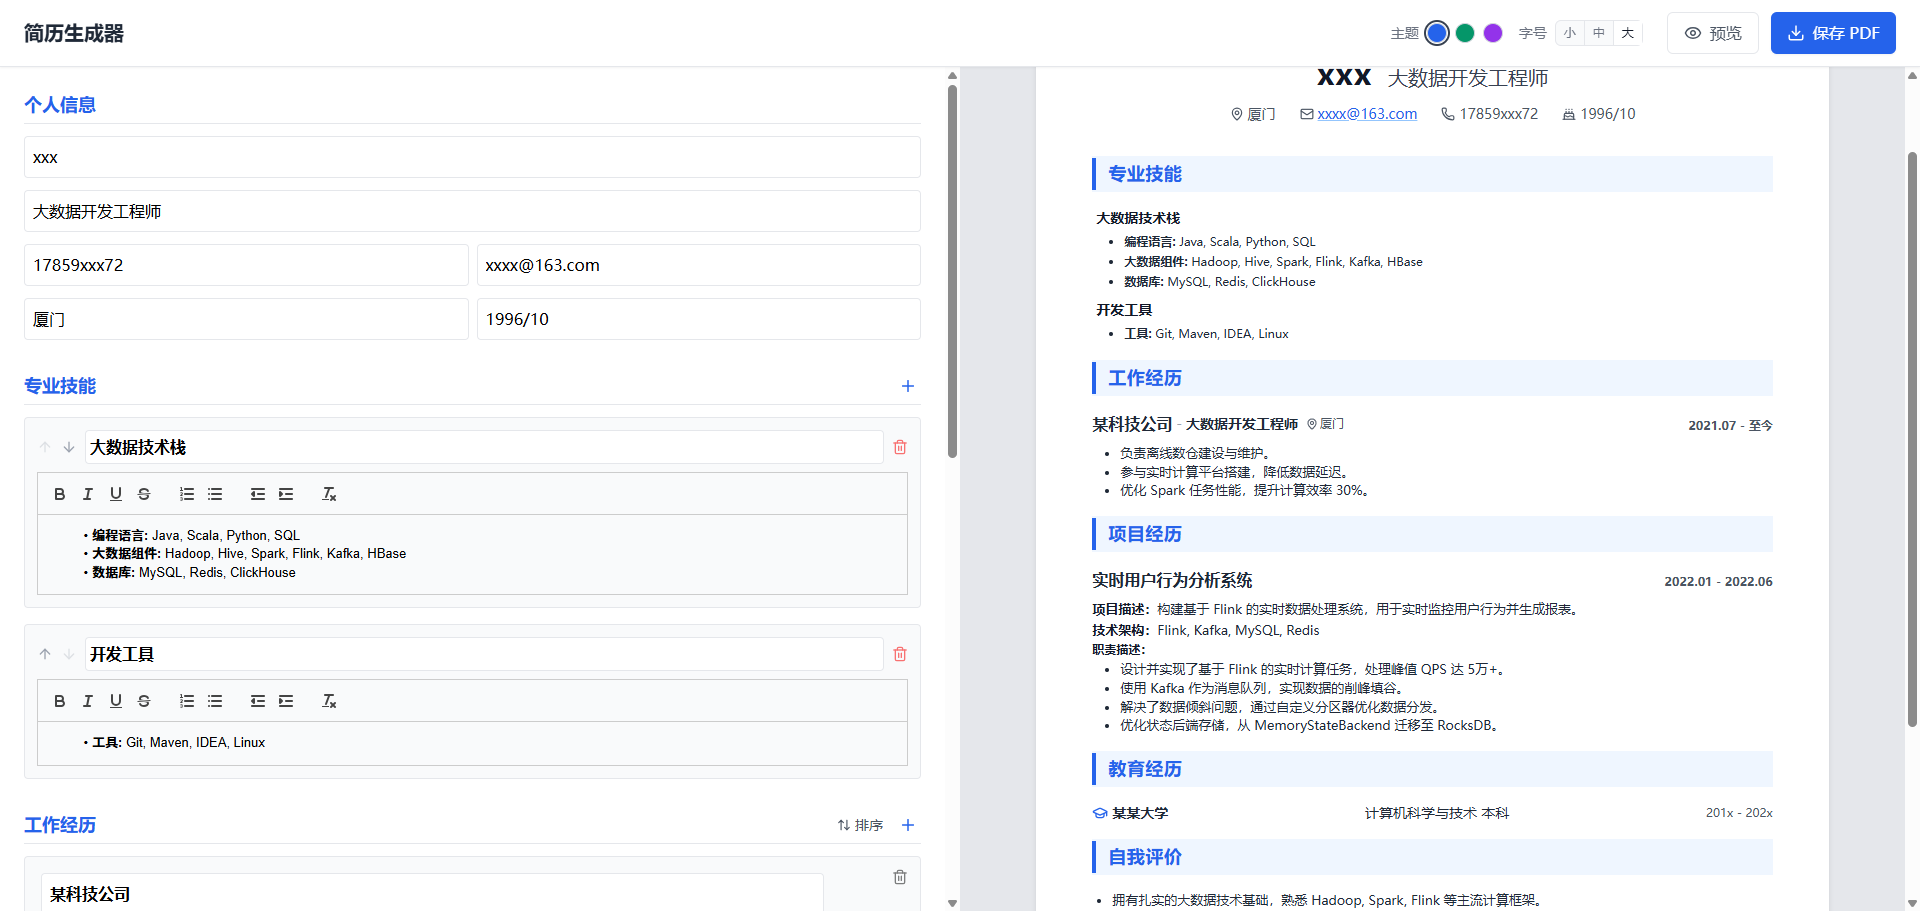
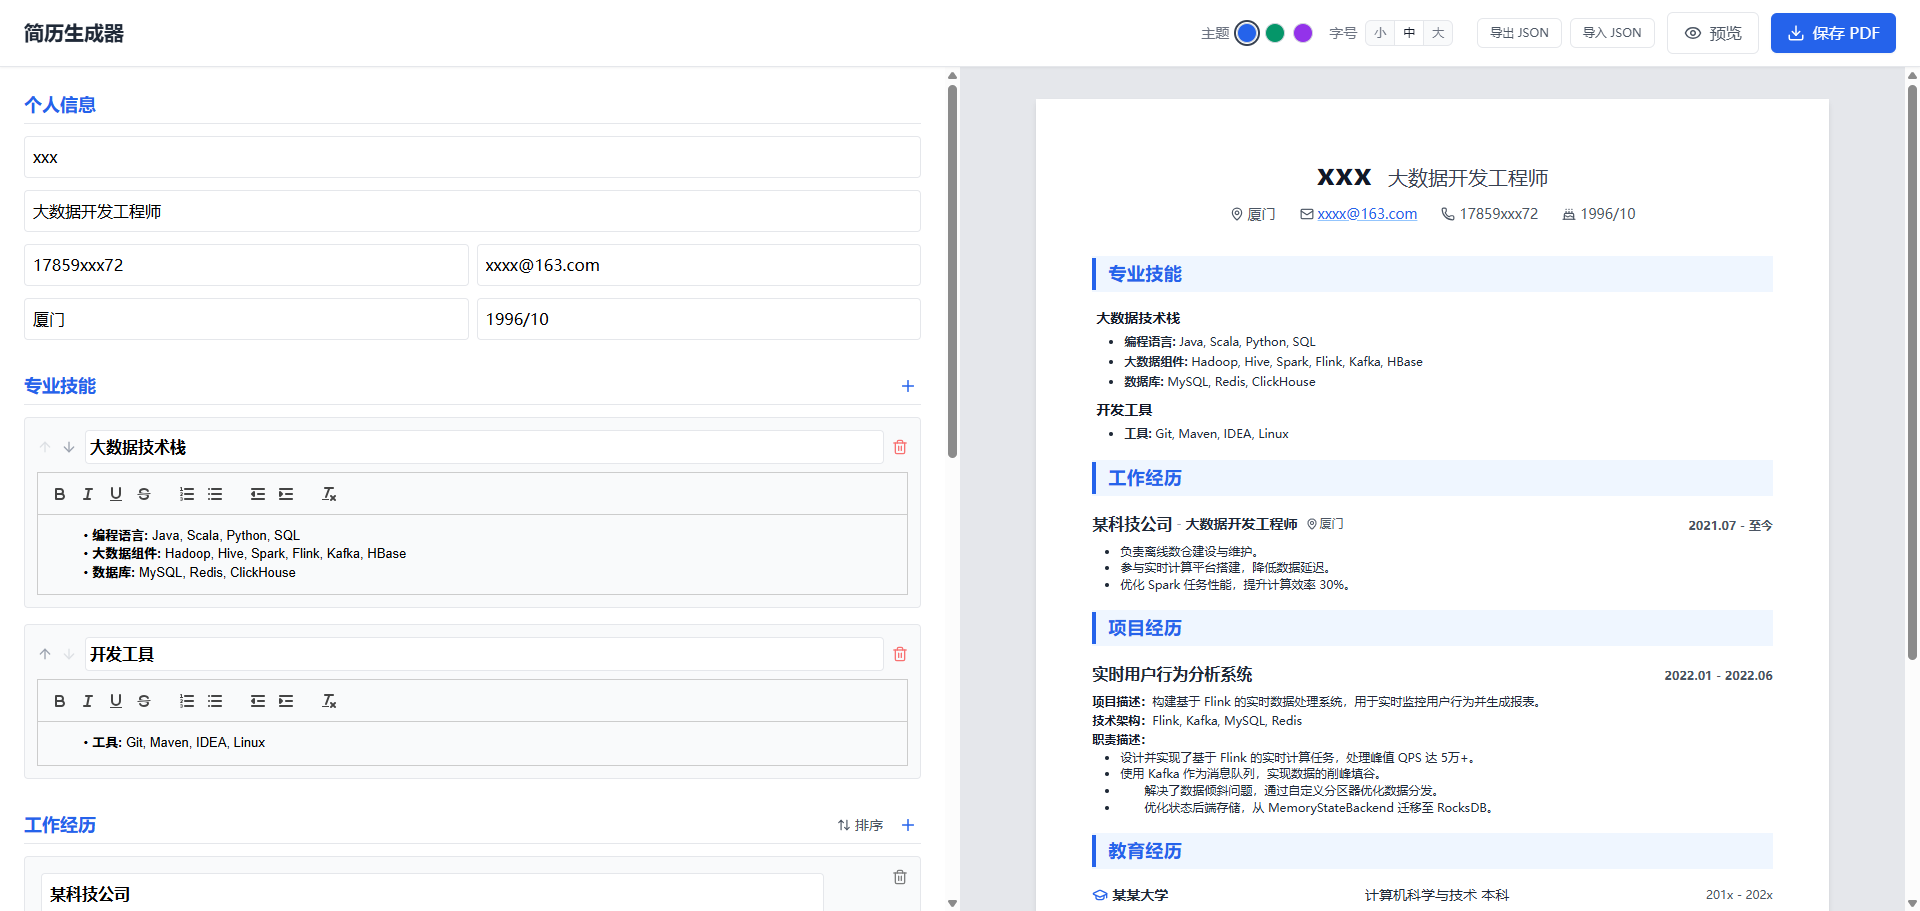
feat(数据持久化): 实现简历数据的本地存储和JSON导入导出功能
- 添加自动保存到localStorage功能，刷新后可恢复编辑
- 新增JSON导出功能，可将简历数据保存为本地文件
- 新增JSON导入功能，可从文件恢复简历数据
- 更新README文档说明新功能使用方法

diff --git a/src/App.tsx b/src/App.tsx
@@ -1,4 +1,4 @@
-import { useState } from 'react';
+import { useState, useEffect, useRef } from 'react';
 import ResumeEditor from './components/ResumeEditor';
 import ResumePreview from './components/ResumePreview';
 import type { ResumeData, Theme, FontSize } from './types';
@@ -40,6 +40,8 @@ const fontSizeOptions: { id: FontSize; label: string }[] = [
   { id: 'medium', label: '中' },
   { id: 'large', label: '大' },
 ];
+
+const STORAGE_KEY = 'resume-web-data-v1';
 
 const initialData: ResumeData = {
   profile: {
@@ -94,12 +96,83 @@ const initialData: ResumeData = {
   ]
 };
 
+function loadInitialResumeData(): ResumeData {
+  if (typeof window === 'undefined') return initialData;
+  const raw = window.localStorage.getItem(STORAGE_KEY);
+  if (!raw) return initialData;
+  try {
+    const parsed = JSON.parse(raw) as ResumeData;
+    if (!parsed || !parsed.profile || !parsed.experience || !parsed.skills || !parsed.projects || !parsed.education) {
+      return initialData;
+    }
+    return parsed;
+  } catch {
+    return initialData;
+  }
+}
+
 function App() {
-  const [resumeData, setResumeData] = useState<ResumeData>(initialData);
+  const [resumeData, setResumeData] = useState<ResumeData>(() => loadInitialResumeData());
   const [isPreview, setIsPreview] = useState(false);
   const [theme, setTheme] = useState<Theme>('blue');
   const themeConfig = themeConfigs[theme];
   const [fontSize, setFontSize] = useState<FontSize>('medium');
+  const fileInputRef = useRef<HTMLInputElement | null>(null);
+
+  useEffect(() => {
+    if (typeof window === 'undefined') return;
+    try {
+      window.localStorage.setItem(STORAGE_KEY, JSON.stringify(resumeData));
+    } catch {
+      /* ignore */
+    }
+  }, [resumeData]);
+
+  const handleExportJson = () => {
+    if (typeof window === 'undefined') return;
+    const blob = new Blob([JSON.stringify(resumeData, null, 2)], {
+      type: 'application/json;charset=utf-8',
+    });
+    const url = URL.createObjectURL(blob);
+    const link = document.createElement('a');
+    const date = new Date();
+    const timestamp = `${date.getFullYear()}${String(date.getMonth() + 1).padStart(2, '0')}${String(
+      date.getDate(),
+    ).padStart(2, '0')}`;
+    link.href = url;
+    link.download = `resume-${timestamp}.json`;
+    document.body.appendChild(link);
+    link.click();
+    document.body.removeChild(link);
+    URL.revokeObjectURL(url);
+  };
+
+  const handleImportClick = () => {
+    if (fileInputRef.current) {
+      fileInputRef.current.value = '';
+      fileInputRef.current.click();
+    }
+  };
+
+  const handleImportJson = (event: React.ChangeEvent<HTMLInputElement>) => {
+    const file = event.target.files?.[0];
+    if (!file) return;
+    const reader = new FileReader();
+    reader.onload = () => {
+      try {
+        const text = reader.result;
+        if (typeof text !== 'string') return;
+        const parsed = JSON.parse(text) as ResumeData;
+        if (!parsed || !parsed.profile || !parsed.experience || !parsed.skills || !parsed.projects || !parsed.education) {
+          return;
+        }
+        setResumeData(parsed);
+      } catch {
+        /* ignore invalid file */
+      }
+    };
+    reader.readAsText(file, 'utf-8');
+  };
 
   return (
     <div className="min-h-screen bg-gray-100 flex flex-col h-screen print:block">
@@ -146,8 +219,31 @@ function App() {
                  </div>
                </div>
              </div>
-             <div className="flex gap-3">
-               <button 
+             <div className="flex gap-3 items-center">
+               <div className="flex gap-2">
+                 <button
+                   type="button"
+                   onClick={handleExportJson}
+                   className="px-3 py-1.5 text-xs border border-gray-200 rounded-md text-gray-600 hover:bg-gray-100"
+                 >
+                   导出 JSON
+                 </button>
+                 <button
+                   type="button"
+                   onClick={handleImportClick}
+                   className="px-3 py-1.5 text-xs border border-gray-200 rounded-md text-gray-600 hover:bg-gray-100"
+                 >
+                   导入 JSON
+                 </button>
+                 <input
+                   ref={fileInputRef}
+                   type="file"
+                   accept="application/json,.json"
+                   className="hidden"
+                   onChange={handleImportJson}
+                 />
+               </div>
+              <button 
                    onClick={() => setIsPreview(!isPreview)}
                    className="flex items-center gap-2 px-4 py-2 rounded-md transition-colors text-gray-600 hover:bg-gray-100 border border-gray-200"
                >

diff --git a/src/components/RichTextEditor.tsx b/src/components/RichTextEditor.tsx
@@ -25,7 +25,6 @@ const formats = [
 export default function RichTextEditor({ value, onChange, placeholder, className }: Props) {
   return (
     <div className={`rich-text-editor ${className || ''}`}>
-      {/* @ts-expect-error ReactQuill type mismatch */}
       <ReactQuill 
         theme="snow"
         value={value}

diff --git a/README.md b/README.md
@@ -13,6 +13,8 @@
 - 一键调用浏览器打印，导出 PDF 简历
 - 支持多套主题色切换（蓝 / 绿 / 紫），实时预览
 - 支持调整正文字号（小 / 中 / 大），同时作用于屏幕预览和导出 PDF
+- 自动本地暂存简历内容，刷新页面或重新打开浏览器后可继续编辑
+- 支持将当前简历数据「导出 JSON」到本地文件，并在任意设备上通过「导入 JSON」恢复
 - 使用 React + TypeScript + Vite + Tailwind CSS 构建
 
 ### 效果截图
@@ -32,9 +34,9 @@
    ![浏览器打印导出 PDF 示例](./docs/screenshot-print-preview.png)
 
 ### 项目结构
-- `src/App.tsx`：应用入口布局，左侧编辑器 + 右侧预览，包含「预览」和「保存 PDF」按钮。
+- `src/App.tsx`：应用入口布局，左侧编辑器 + 右侧预览；包含主题与字号切换、JSON 导出 / 导入、本地暂存逻辑以及「预览」「保存 PDF」按钮。
 - `src/components/ResumeEditor.tsx`：简历编辑器，负责所有表单与富文本编辑。
-- `src/components/ResumePreview.tsx`：简历预览与打印排版逻辑（A4 纸大小、分页、字体大小等）。
+- `src/components/ResumePreview.tsx`：简历预览与打印排版逻辑（A4 纸大小、分页、字体大小、主题色等）。
 - `src/components/RichTextEditor.tsx`：通用富文本编辑组件。
 - `src/components/PageBreakController.tsx`：分页检测实验组件（目前未在界面中直接使用）。
 - `src/types.ts`：简历数据结构定义。
@@ -84,6 +86,24 @@ npm run preview
 5. 确认预览效果合适后，点击「保存」导出 PDF 文件。
 
 > 如果发现页面之间有较大空白，可以适当调整简历内容长度或条目数量，让内容更紧凑地填满 A4 纸张。
+
+### 数据保存与迁移
+
+#### 本地自动暂存
+
+- 应用会将当前简历数据自动保存到浏览器的 `localStorage` 中；
+- 即使关闭浏览器或刷新页面，下次打开仍会恢复到上一次编辑的内容；
+- 暂存数据按浏览器和设备隔离：更换浏览器或设备不会自动同步。
+
+#### 导出 / 导入 JSON
+
+- 导出：
+  - 在页面右上角点击「导出 JSON」按钮；
+  - 浏览器会下载一个 `resume-YYYYMMDD.json` 文件，其中包含当前所有简历数据。
+- 导入：
+  - 在页面右上角点击「导入 JSON」，选择之前导出的 `.json` 文件；
+  - 解析成功后，左侧编辑器和右侧预览会立即切换为该文件中的内容；
+  - 导入成功的内容会同步写入本地暂存，下次打开页面仍然有效。
 
 ### 技术栈
 
